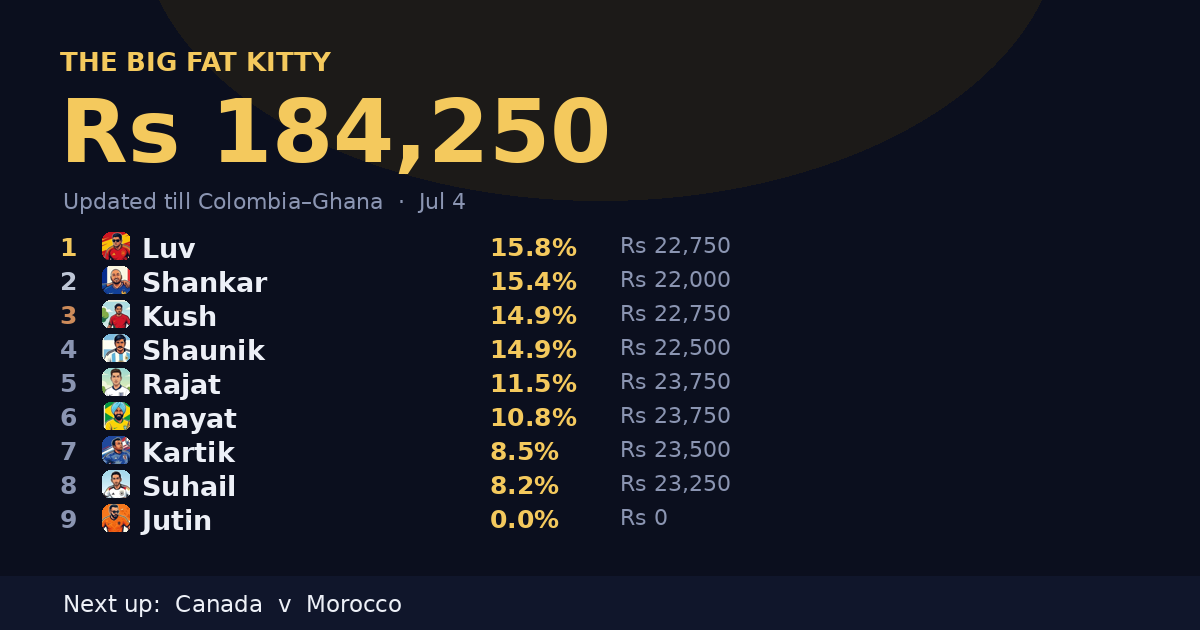
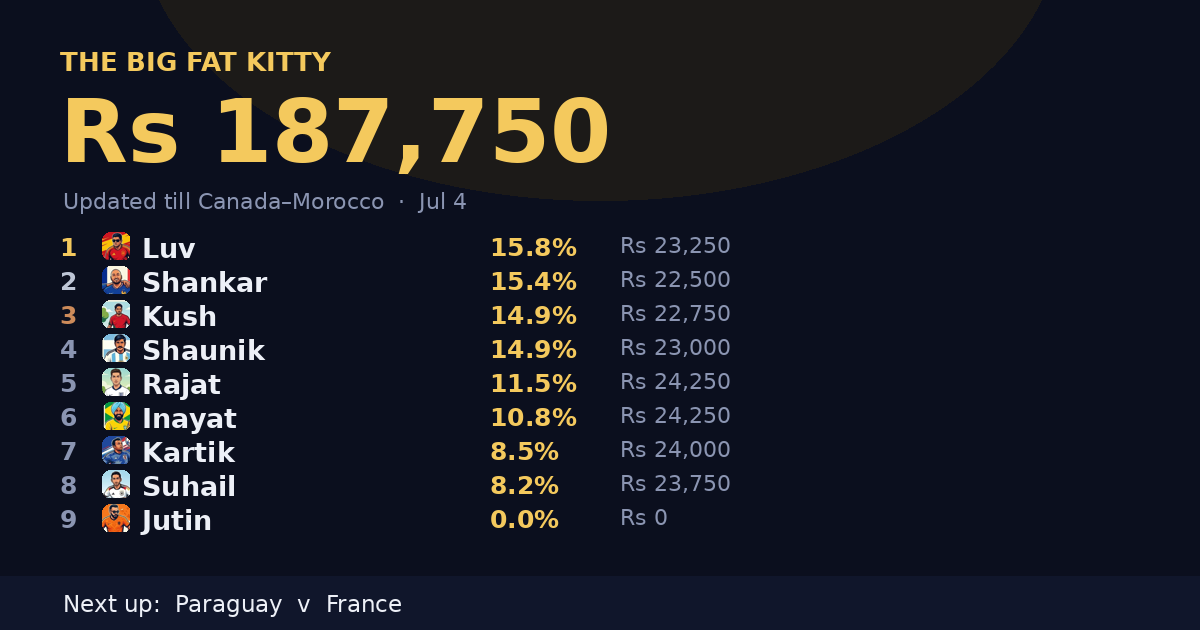
Auto-update: 2026-07-04 20:05 UTC

diff --git a/index.html b/index.html
@@ -14,8 +14,8 @@
 <title>World Cup 2026 — The Big Fat Kitty 🐱</title>
 <!-- WhatsApp / link preview. og.py rewrites the title, description and image daily. -->
 <meta property="og:type" content="website">
-<meta property="og:title" content="The Big Fat Kitty 🐱 — ₹184,250 in the pot">
-<meta property="og:description" content="Leader: Luv (15.8%)  ·  Lightest: Jutin  ·  Next: Canada v Morocco">
+<meta property="og:title" content="The Big Fat Kitty 🐱 — ₹187,750 in the pot">
+<meta property="og:description" content="Leader: Luv (15.8%)  ·  Lightest: Jutin  ·  Next: Paraguay v France">
 <meta property="og:image" content="https://therajatsachdeva.github.io/big-fat-kitty/og.png?v=jul4">
 <meta property="og:url" content="https://therajatsachdeva.github.io/big-fat-kitty/">
 <meta name="twitter:card" content="summary_large_image">
